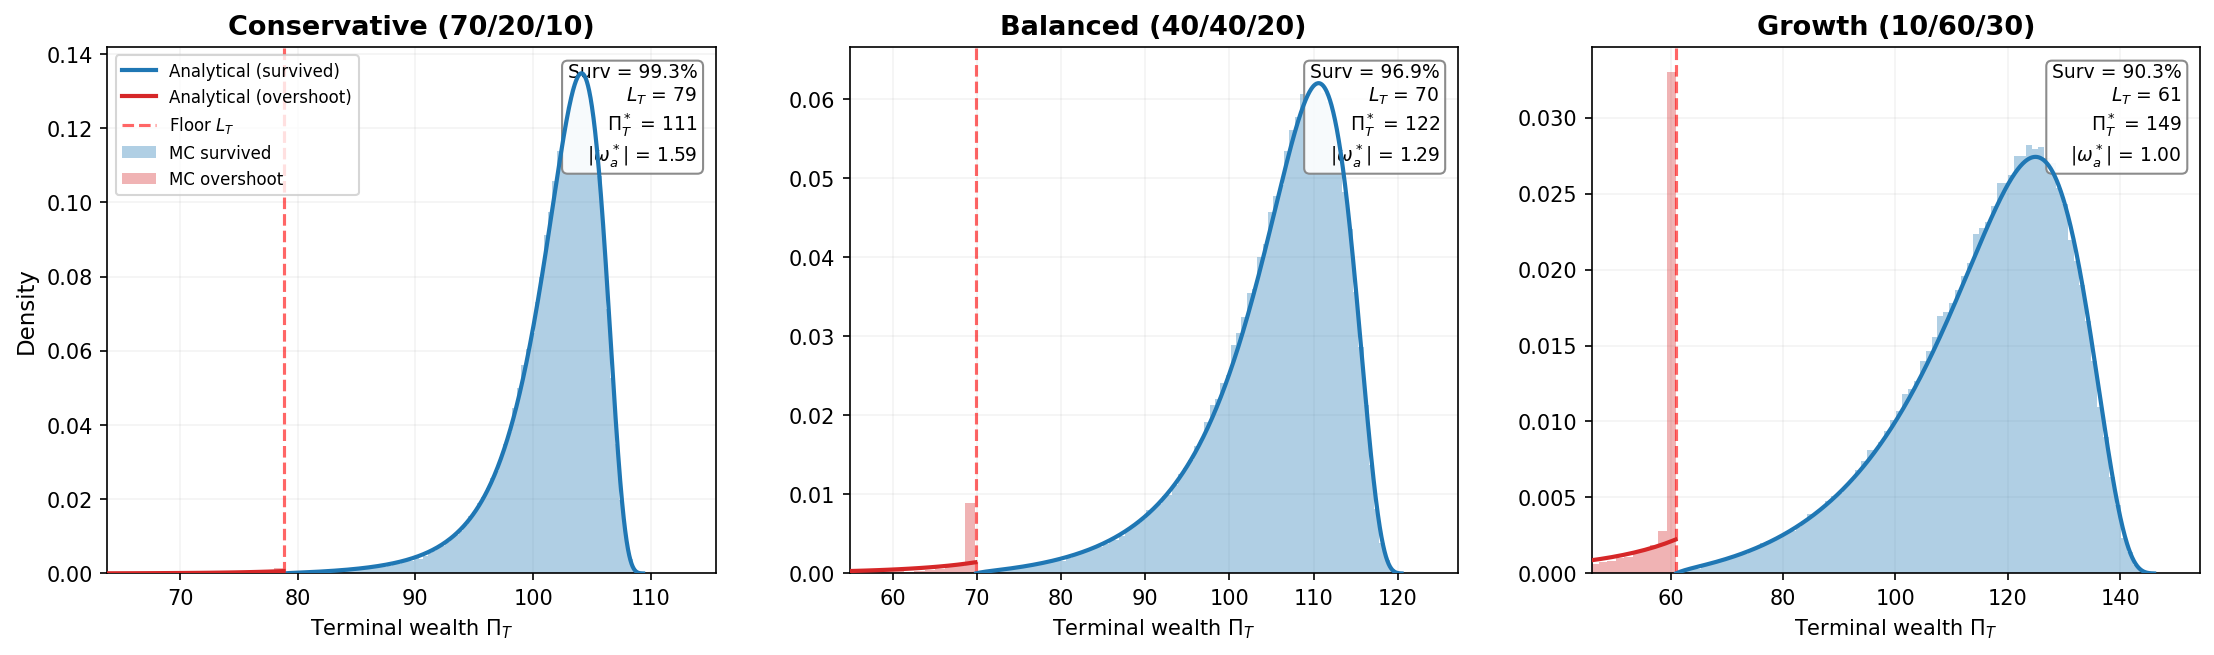
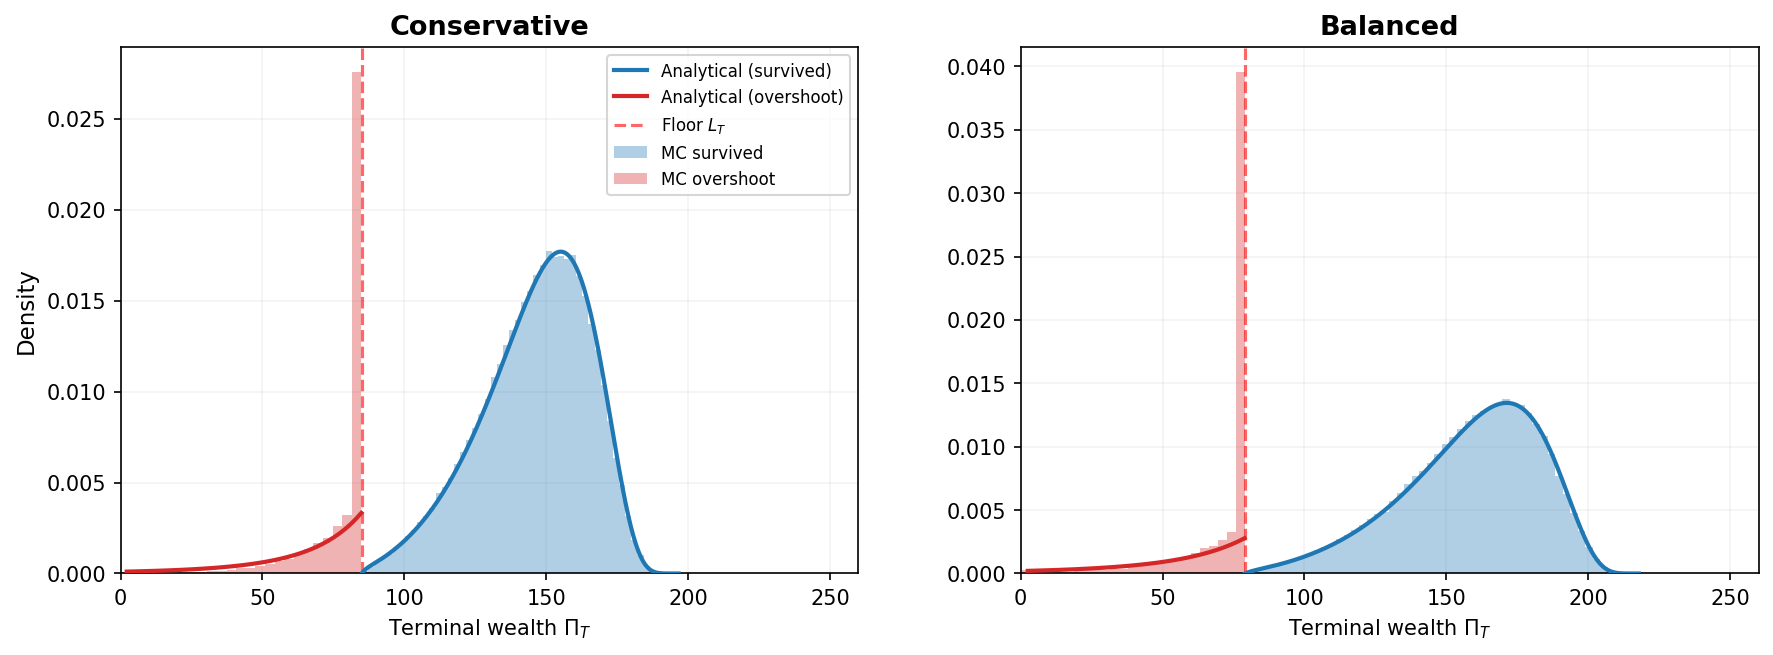
add paper link

diff --git a/paper_figures/generate_paper_figures.py b/paper_figures/generate_paper_figures.py
@@ -501,39 +501,33 @@ def figure_path_dynamics(filename, outdir):
 
 
 # ============================================================
-# Figure 10: Mandate Comparison (3 subplots: Conservative, Balanced, Growth)
+# Figure 10: Mandate Comparison (2 subplots: Conservative, Balanced)
 # ============================================================
 def figure_mandate_comparison(filename, outdir, n_paths=N_PATHS_MC):
     """Terminal wealth density for mandates: analytical vs MC.
 
-    Three subplots in one row showing survived density (blue) and
-    overshoot density (red) overlaid on MC histograms.
-    Validates the full pipeline: portfolio aggregation → Riccati →
-    gap process → Laplace density → MC comparison.
+    Two subplots showing survived density (blue) and overshoot density
+    (red) overlaid on MC histograms. Uses _calibrate_mandate with
+    c=0%, ω*(0)=1, q_dd=2 — matching Table 2 parameters.
     """
-    assets = create_paper_assets()
-    mandates = create_paper_mandates(assets)
+    mandate_specs = [
+        ('Conservative',  0.65),
+        ('Balanced',      0.35),
+    ]
 
-    fig, axes = plt.subplots(1, 3, figsize=(15, 4.5))
+    fig, axes = plt.subplots(1, 2, figsize=(12, 4.5))
 
-    for idx, name in enumerate(['conservative', 'balanced', 'growth']):
+    for idx, (label, w_bd) in enumerate(mandate_specs):
         ax = axes[idx]
-        mandate = mandates[name]
-        eff = mandate_effective_asset(mandate)
-        target = MANDATE_TARGETS[name]
-
-        # Solve Riccati & gap process
-        ell, ric = find_ell(eff, T, target, r, r)  # c = r = 2%
-        gap = gap_process_asset(ric)
-        r_c = max(0, r - r)  # = 0 for base case
-        PiT = ric.derived_at_tau(0)['Pi_star'][0]
-        L_T = eff.pi_floor * np.exp(r_c * T)
-        B_T = PiT - L_T
+        cal = _calibrate_mandate(w_bd, c=0.0, omega_0=1.0)
+        gap = cal['gap']; eff = cal['eff']; ric = cal['ric']
+        PiT = cal['PiT']; L_T = cal['L_T']; B_T = cal['B_T']
+        wa = cal['wa']
 
         # Analytical bounded density (survived component)
-        x_max = min(8.0, gap.x0 + 6*max(gap.params.sigma0,
-                                          gap.params.sigma1)*np.sqrt(T))
-        x_grid = np.linspace(0.001, x_max, 800)
+        x_max = min(10.0, gap.x0 + 8*max(gap.params.sigma0,
+                                           gap.params.sigma1)*np.sqrt(T))
+        x_grid = np.linspace(0.0001, x_max, 500)
         d0_b, d1_b = compute_density(T, x_grid, gap)
         dg_b = d0_b + d1_b
         S = compute_survival(T, gap.x0, gap)
@@ -542,8 +536,9 @@ def figure_mandate_comparison(filename, outdir, n_paths=N_PATHS_MC):
         Pi_surv = PiT - B_T * np.exp(-x_grid)
         f_Pi_surv = dg_b / (B_T * np.exp(-x_grid))
 
-        # Analytical overshoot density
-        d_ov_grid = np.linspace(0.001, 8.0, 400)
+        # Analytical overshoot density — extend to cover Pi > 0
+        d_ov_max = np.log(B_T / 1.0) if B_T > 1 else 8.0  # Pi_over = 0 at d = ln(B_T)
+        d_ov_grid = np.linspace(0.001, min(d_ov_max, 10.0), 300)
         f_ov = compute_overshoot_density(T, d_ov_grid, gap)
         over_mass = float(np.trapezoid(f_ov, d_ov_grid))
         Pi_over = PiT - B_T * np.exp(d_ov_grid)
@@ -558,64 +553,53 @@ def figure_mandate_comparison(filename, outdir, n_paths=N_PATHS_MC):
         # MC histograms (density = counts / (N_total * bin_width))
         if np.sum(survived) > 100:
             vals_s = Pi_T_mc[survived]
-            counts_s, edges_s = np.histogram(vals_s, bins=80)
+            counts_s, edges_s = np.histogram(vals_s, bins=50)
             widths_s = np.diff(edges_s)
             density_s = counts_s / (n_paths * widths_s)
             centers_s = 0.5 * (edges_s[:-1] + edges_s[1:])
             ax.bar(centers_s, density_s, width=widths_s, alpha=0.35,
-                   color='C0', edgecolor='none', label='MC survived', zorder=2)
+                   color='C0', edgecolor='none',
+                   label='MC survived' if idx == 0 else None, zorder=2)
 
         if np.sum(is_overshoot) > 10:
             vals_o = Pi_T_mc[is_overshoot]
-            counts_o, edges_o = np.histogram(vals_o, bins=40)
+            counts_o, edges_o = np.histogram(vals_o, bins=25)
             widths_o = np.diff(edges_o)
             density_o = counts_o / (n_paths * widths_o)
             centers_o = 0.5 * (edges_o[:-1] + edges_o[1:])
             ax.bar(centers_o, density_o, width=widths_o, alpha=0.35,
-                   color='C3', edgecolor='none', label='MC overshoot', zorder=2)
+                   color='C3', edgecolor='none',
+                   label='MC overshoot' if idx == 0 else None, zorder=2)
 
         # Analytical survived density
         ax.plot(Pi_surv, f_Pi_surv, 'C0-', lw=2,
-                label='Analytical (survived)', zorder=5)
+                label='Analytical (survived)' if idx == 0 else None, zorder=5)
 
         # Analytical overshoot density
         if over_mass > 0.001:
-            valid_ov = (Pi_over > (L_T - 40)) & (f_Pi_over > 1e-8)
+            valid_ov = (Pi_over > 0) & (f_Pi_over > 1e-8)
             ax.plot(Pi_over[valid_ov], f_Pi_over[valid_ov], 'C3-', lw=2,
-                    label='Analytical (overshoot)', zorder=5)
+                    label='Analytical (overshoot)' if idx == 0 else None, zorder=5)
 
         # Floor line
         ax.axvline(L_T, color='r', ls='--', lw=1.5, alpha=0.6,
                    label='Floor $L_T$' if idx == 0 else None)
 
-        ax.set_title(MANDATE_LABELS[name], fontsize=13, fontweight='bold')
+        ax.set_title(label, fontsize=13, fontweight='bold')
         ax.set_xlabel(r'Terminal wealth $\Pi_T$', fontsize=10)
         if idx == 0:
             ax.set_ylabel('Density', fontsize=11)
 
-        xleft = max(L_T - 15, 0)
-        xright = PiT + 5
-        ax.set_xlim(xleft, xright)
+        ax.set_xlim(0, 260)
         ax.set_ylim(bottom=0)
         ax.grid(alpha=0.15)
 
-        pct_s = f'{100*S:.0f}' if S > 0.999 else f'{100*S:.1f}'
-        wa = abs(ric.derived_at_tau(ric.T)['w_a'][0])
-        info = (f'Surv = {pct_s}%\n'
-                f'$L_T$ = {L_T:.0f}\n'
-                f'$\\Pi^*_T$ = {PiT:.0f}\n'
-                f'$|\\omega^*_a|$ = {wa:.2f}')
-        ax.text(0.97, 0.97, info, transform=ax.transAxes, fontsize=9,
-                va='top', ha='right',
-                bbox=dict(boxstyle='round,pad=0.3', facecolor='white',
-                          edgecolor='gray', alpha=0.9))
-
-        print(f"    {name:16s}: S_an={S:.3f} O_an={over_mass:.3f} | "
+        print(f"    {label:20s}: S_an={S:.3f} O_an={over_mass:.3f} | "
               f"S_mc={np.mean(survived):.3f} O_mc={np.mean(is_overshoot):.3f} | "
               f"|w_a|={wa:.2f}")
 
-    axes[0].legend(fontsize=8, loc='upper left')
-    plt.subplots_adjust(left=0.05, right=0.98, bottom=0.14, top=0.92, wspace=0.22)
+    axes[0].legend(fontsize=8, loc='upper right')
+    plt.subplots_adjust(left=0.07, right=0.98, bottom=0.14, top=0.92, wspace=0.22)
     fig.savefig(outdir / filename, dpi=150, bbox_inches='tight')
     plt.close('all')
     print(f'  Saved {filename}')

diff --git a/README.md b/README.md
@@ -375,7 +375,7 @@ If you use this package in your research, please cite:
   title   = {Dynamic Mean-Variance Portfolio Allocation under Regime-Switching
              Jump-Diffusions with Absorbing Barriers},
   year    = {2026},
-  note    = {Available at SSRN: https://papers.ssrn.com/sol3/papers.cfm?abstract_id=XXXXXXXX}
+  note    = {Available at SSRN: https://papers.ssrn.com/sol3/papers.cfm?abstract_id=6534579}
 }
 ```
 
